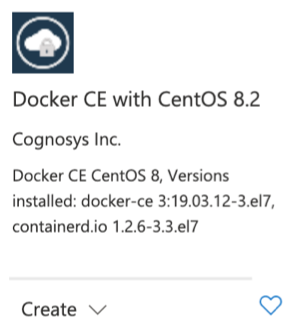
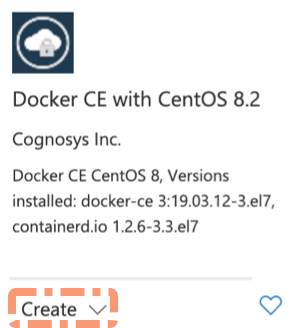
Add highlights to immages and formatting changes

Changed region(s): [[0.0, 0.8537, 0.4286, 1.0]]

diff --git a/articles/java/fundamentals/java-get-started-with-elasticsearch.md b/articles/java/fundamentals/java-get-started-with-elasticsearch.md
@@ -15,7 +15,6 @@ This tutorial shows you how to configure **Elastic Cloud (Elasticsearch managed 
 In this tutorial, you'll learn how to:
 
 > [!div class="checklist"]
-> * Deploy an Elastic Cloud Elasticsearch managed service cluster on Azure.
 > * Deploy Filebeat and Elastic APM Java Agent using Docker, which will send the OpBeans eCommerce logs and APM traces to Elasticsearch hosted on Microsoft Azure.
 > * Deploy OpBeans, a Spring Boot demo application that simulates a working Java eCommerce application.
 > * Visualize the Java application logs and metrics in Kibana, including outlining how to investigate a simulated error.
@@ -58,9 +57,9 @@ OpenSSL version: OpenSSL 1.1.0f  25 May 2017
 ```
 
 ## Spinning up an Elasticsearch Cluster
-Get started with **Elastic Cloud on Azure** from the [Azure Marketplace](https://azuremarketplace.microsoft.com/en-us/marketplace/apps/elastic.ec-azure) using your existing Azure account. This provides integrated billing and stress free management.
+Get started with **Elastic on Azure** from the [Azure Marketplace](https://azuremarketplace.microsoft.com/en-us/marketplace/apps/elastic.ec-azure) using your existing Azure account. This provides integrated billing and stress free management.
 
-Please refer to the [How to Deploy Elastic Cloud on Microsoft Azure](https://cloudblogs.microsoft.com/opensource/2020/10/21/how-to-deploy-elastic-cloud-microsoft-azure) for the steps to deploy Elastic on Azure with the exception of using the Sample Data - we will instead use our own data.
+Please refer to the [How to Deploy Elastic Cloud on Microsoft Azure](https://cloudblogs.microsoft.com/opensource/2020/10/21/how-to-deploy-elastic-cloud-microsoft-azure) for the steps to deploy Elastic on Azure with the exception of using the Sample Data steps as we will instead be using our own data.
 
 You can name your new deployment **OpBeans** to help identify this setup.
 
